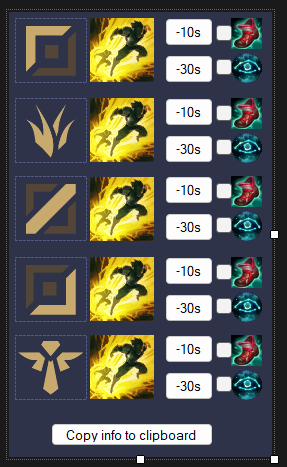
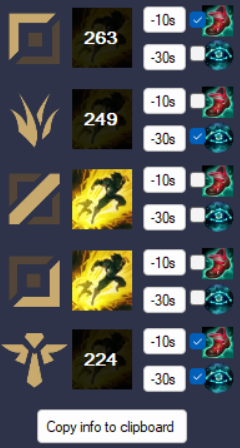
change screenshot
change screenshot

diff --git a/LeagueSumTimer/Form1.Designer.cs b/LeagueSumTimer/Form1.Designer.cs
@@ -68,9 +68,9 @@
             // 
             // btnClipboard
             // 
-            this.btnClipboard.Location = new System.Drawing.Point(42, 411);
+            this.btnClipboard.Location = new System.Drawing.Point(42, 403);
             this.btnClipboard.Name = "btnClipboard";
-            this.btnClipboard.Size = new System.Drawing.Size(162, 23);
+            this.btnClipboard.Size = new System.Drawing.Size(162, 36);
             this.btnClipboard.TabIndex = 4;
             this.btnClipboard.Text = "Copy info to clipboard";
             this.btnClipboard.UseVisualStyleBackColor = true;

diff --git a/README.md b/README.md
@@ -4,7 +4,7 @@
 707FlashTimer是为英雄联盟设计的闪现技能计时器。它将在游戏内覆盖显示，可以用快捷键快速隐藏或显示窗口。
 
 ## Screenshot 截图展示
-![DEMO!](assets/demo2.png "DEMO")
+![DEMO!](assets/demo1.png "DEMO")
 
 ## In-game Demo 游戏内视频演示
 
